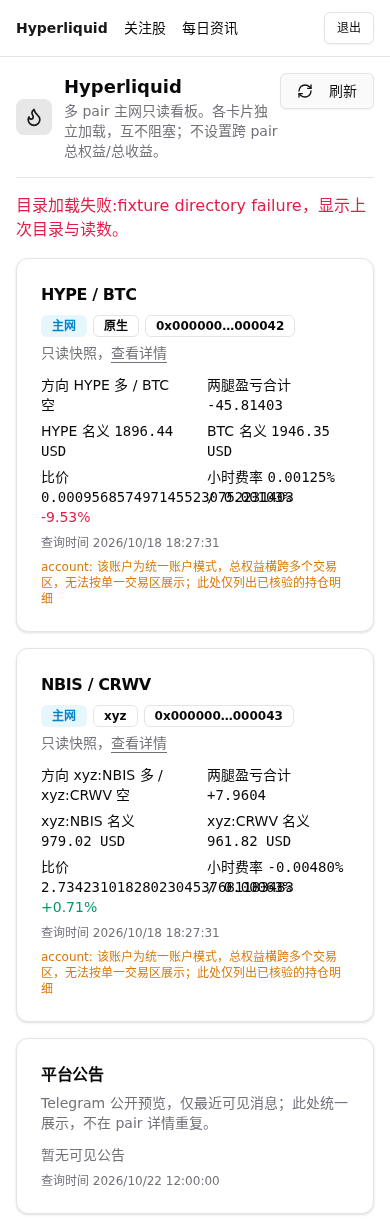
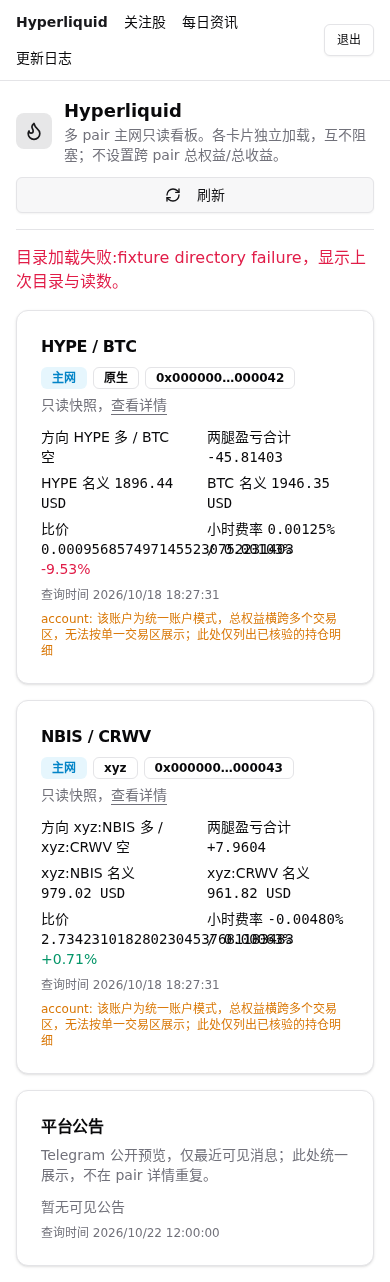
feat: add changelog page

diff --git a/frontend/src/pages/changelog-page.tsx b/frontend/src/pages/changelog-page.tsx
@@ -1,0 +1,83 @@
+import { History } from 'lucide-react';
+
+import { PageHeader } from '@/components/layout/page-header';
+import { Badge } from '@/components/ui/badge';
+import { Card, CardContent, CardDescription, CardHeader, CardTitle } from '@/components/ui/card';
+
+type ChangeKind = '新功能' | '体验优化' | '安全';
+
+interface Change {
+  kind: ChangeKind;
+  text: string;
+}
+
+interface Release {
+  date: string;
+  title: string;
+  description: string;
+  changes: Change[];
+}
+
+const releases: Release[] = [
+  {
+    date: '2026-11-11',
+    title: '调仓过程与结果更清晰',
+    description: '补充调仓时的实时价格依据和成交后的滑点信息。',
+    changes: [
+      { kind: '新功能', text: '新增网站更新日志页面，集中查看已经上线的功能改动。' },
+      { kind: '新功能', text: '调仓弹窗每 5 秒更新两腿盘口，展示买一、卖一和中间价；盘口变化后必须重新预览。' },
+      { kind: '体验优化', text: '调仓结果和交易历史展示每腿成交均价、滑点百分比与滑点金额，并标明是否有利。' },
+    ],
+  },
+  {
+    date: '2026-11-04',
+    title: '目标仓位调整与托管 API Wallet',
+    description: '支持按每腿目标名义调整 Hyperliquid pair 仓位。',
+    changes: [
+      { kind: '新功能', text: '根据实际仓位和目标名义预览两腿差额，展示交易方向、数量与 IOC 保护价。' },
+      { kind: '新功能', text: '支持浏览器 API Wallet 逐腿签名，也支持添加托管 API Wallet 执行已确认的调仓。' },
+      { kind: '新功能', text: '新增调仓使用说明和交易历史，保留每腿订单、成交状态与最终仓位。' },
+      { kind: '安全', text: '托管私钥经浏览器和服务端双重加密保存；执行前后核对授权、仓位和签名账户，异常结果禁止直接重试。' },
+    ],
+  },
+];
+
+const badgeVariant: Record<ChangeKind, 'default' | 'secondary' | 'outline'> = {
+  新功能: 'default',
+  体验优化: 'secondary',
+  安全: 'outline',
+};
+
+export function ChangelogPage() {
+  return (
+    <div className="space-y-6">
+      <PageHeader
+        icon={History}
+        title="更新日志"
+        description="按日期记录网站已经上线的功能、体验与安全改动，最新更新排在前面。"
+      />
+
+      <div className="space-y-4">
+        {releases.map((release) => (
+          <Card key={release.date} aria-labelledby={`release-${release.date}`}>
+            <CardHeader>
+              <time dateTime={release.date} className="text-xs font-medium text-muted-foreground">{release.date}</time>
+              <CardTitle id={`release-${release.date}`} className="text-base">{release.title}</CardTitle>
+              <CardDescription>{release.description}</CardDescription>
+            </CardHeader>
+            <CardContent>
+              <ul className="space-y-3">
+                {release.changes.map((change) => (
+                  <li key={change.text} className="flex items-start gap-3 text-sm leading-relaxed">
+                    <Badge variant={badgeVariant[change.kind]} className="mt-0.5 shrink-0">{change.kind}</Badge>
+                    <span>{change.text}</span>
+                  </li>
+                ))}
+              </ul>
+            </CardContent>
+          </Card>
+        ))}
+      </div>
+    </div>
+  );
+}

diff --git a/frontend/src/App.tsx b/frontend/src/App.tsx
@@ -6,6 +6,7 @@ import { HyperliquidPairPage } from "@/pages/hyperliquid-pair-page";
 import { LoginPage } from "@/pages/login-page";
 import { WatchlistPage } from "@/pages/watchlist-page";
 import { NewsPage } from "@/pages/news-page";
+import { ChangelogPage } from "@/pages/changelog-page";
 import { Button } from "@/components/ui/button";
 import { sessionApi } from "@/lib/api/client";
 
@@ -33,10 +34,11 @@ function ProtectedLayout() {
     <div className="min-h-screen">
       <header className="border-b bg-background">
         <div className="max-w-7xl mx-auto px-4 py-3 flex items-center justify-between gap-4">
-          <nav aria-label="主导航" className="flex gap-4 text-sm">
+          <nav aria-label="主导航" className="flex flex-wrap gap-4 text-sm">
             <NavLink to="/hyperliquid" className={({ isActive }) => isActive ? "font-semibold text-primary" : ""}>Hyperliquid</NavLink>
             <NavLink to="/watchlist" className={({ isActive }) => isActive ? "font-semibold text-primary" : ""}>关注股</NavLink>
             <NavLink to="/news" className={({ isActive }) => isActive ? "font-semibold text-primary" : ""}>每日资讯</NavLink>
+            <NavLink to="/changelog" className={({ isActive }) => isActive ? "font-semibold text-primary" : ""}>更新日志</NavLink>
           </nav>
           <Button variant="outline" size="sm" onClick={() => void logout()}>退出</Button>
         </div>
@@ -56,6 +58,7 @@ export default function App() {
         <Route path="/hyperliquid/pairs/:pairId" element={<HyperliquidPairPage />} />
         <Route path="/watchlist" element={<WatchlistPage />} />
         <Route path="/news" element={<NewsPage />} />
+        <Route path="/changelog" element={<ChangelogPage />} />
         <Route path="/" element={<Navigate to="/hyperliquid" replace />} />
         <Route path="*" element={<Navigate to="/hyperliquid" replace />} />
       </Route>

diff --git a/frontend/src/pages/changelog-page.test.tsx b/frontend/src/pages/changelog-page.test.tsx
@@ -1,0 +1,41 @@
+import assert from 'node:assert/strict';
+import test from 'node:test';
+
+import { QueryClient, QueryClientProvider } from '@tanstack/react-query';
+import { renderToString } from 'react-dom/server';
+import { MemoryRouter } from 'react-router-dom';
+
+import App from '@/App';
+import { ChangelogPage } from './changelog-page';
+
+
+test('更新日志按日期倒序展示功能、体验和安全改动', () => {
+  const html = renderToString(<ChangelogPage />);
+  assert.match(html, /更新日志/);
+  assert.match(html, /2026-11-11/);
+  assert.match(html, /调仓过程与结果更清晰/);
+  assert.match(html, /每 5 秒更新两腿盘口/);
+  assert.match(html, /目标仓位调整与托管 API Wallet/);
+  assert.match(html, /新功能/);
+  assert.match(html, /体验优化/);
+  assert.match(html, /安全/);
+  assert.ok(html.indexOf('2026-11-11') < html.indexOf('2026-11-04'));
+});
+
+
+test('/changelog 路由保留登录布局并提供主导航入口', () => {
+  const qc = new QueryClient();
+  qc.setQueryData(['session'], { authenticated: true, auth_mode: 'token' });
+  const html = renderToString(
+    <QueryClientProvider client={qc}>
+      <MemoryRouter initialEntries={['/changelog']}>
+        <App />
+      </MemoryRouter>
+    </QueryClientProvider>,
+  );
+  assert.match(html, /aria-label="主导航"/);
+  assert.match(html, /href="\/changelog"/);
+  assert.match(html, /aria-current="page"/);
+  assert.match(html, /最新更新排在前面/);
+  qc.clear();
+});
